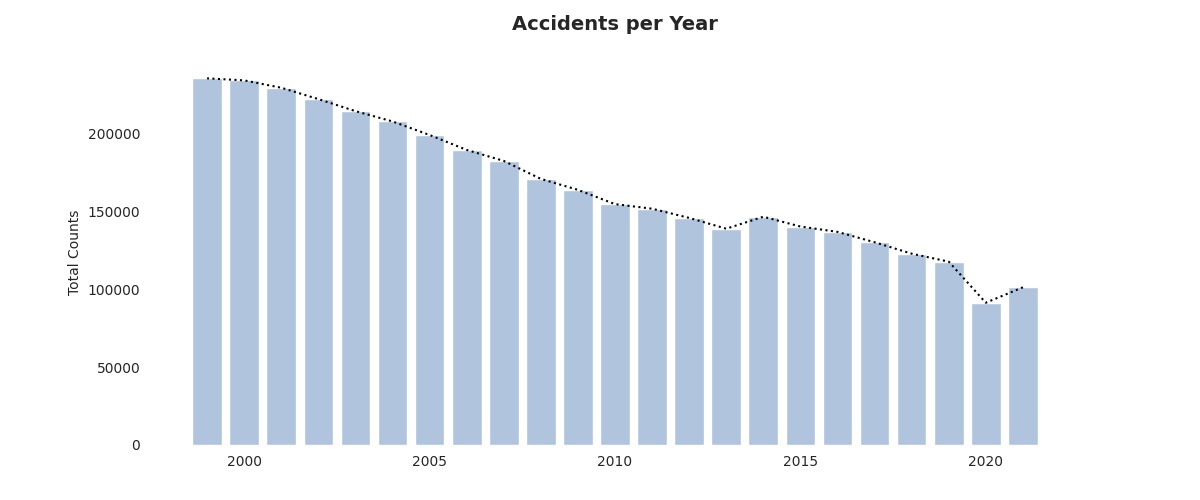
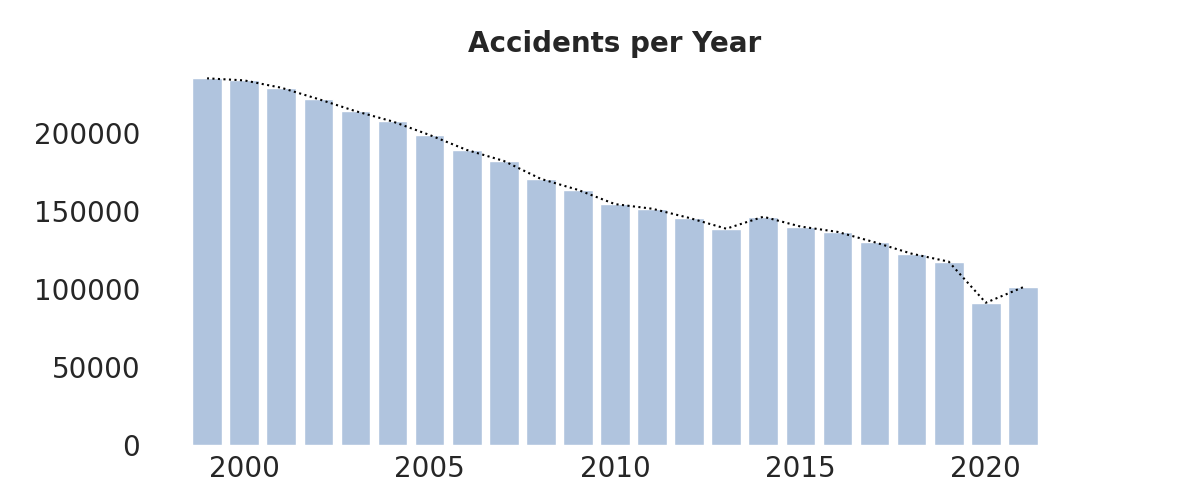
layout improved

diff --git a/pages/03_Analysis_Page.py b/pages/03_Analysis_Page.py
@@ -57,7 +57,7 @@ st.image(image)
 with st.expander('Click to see explanation'):
     st.markdown('<p style="font-size: 21px;">If we divide the day in five main hour windows, we can see that the afternoon rush window is the one where most accidents happen.</p>',unsafe_allow_html=True)
 
-image = Image.open('shares.png')
+image = Image.open('shares.jpg')
 st.image(image)
 
 with st.expander('Click to see explanation'):

diff --git a/01_Home_Page.py b/01_Home_Page.py
@@ -14,7 +14,7 @@ st.markdown(par,unsafe_allow_html=True)
 c1, c2 = st.columns((1, 1))
 
 image = Image.open('bus.jpeg')
-c1.image(image,width=600)
+c1.image(image)
 
 
 
